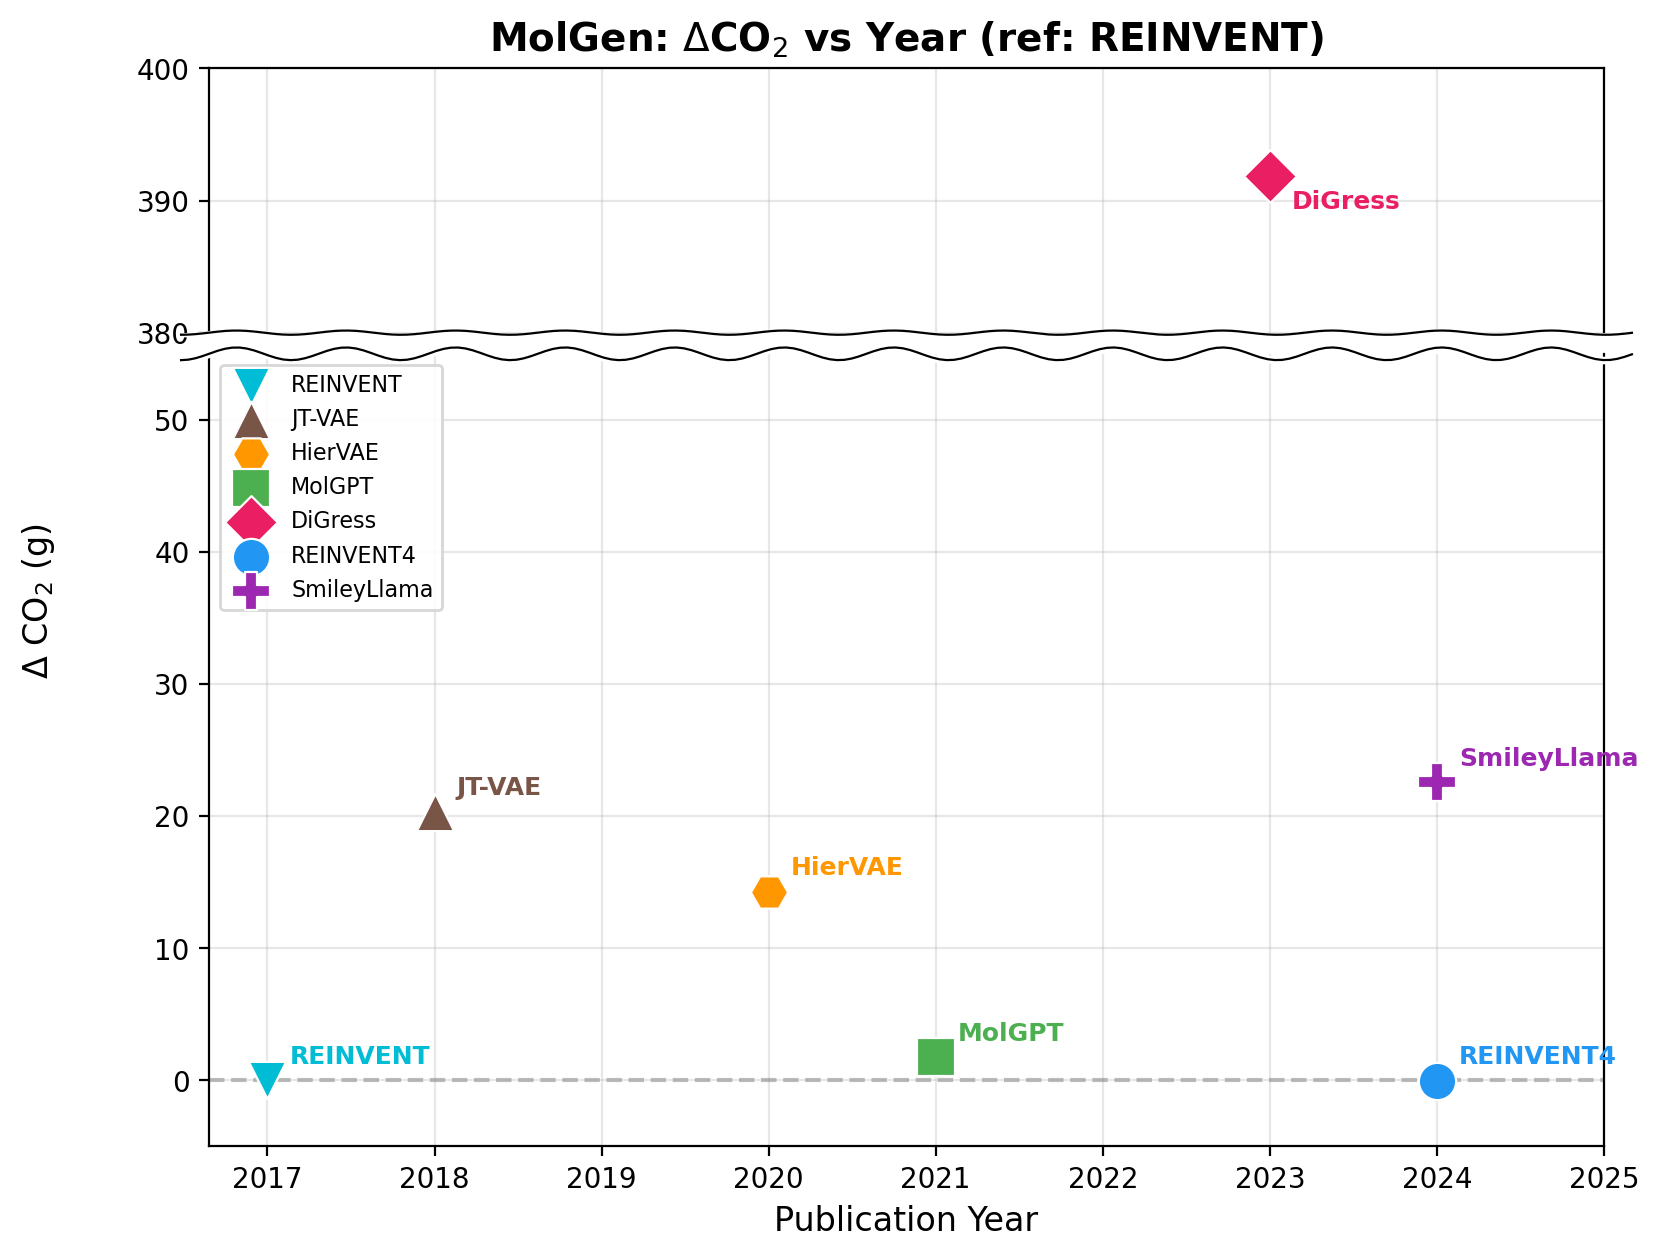
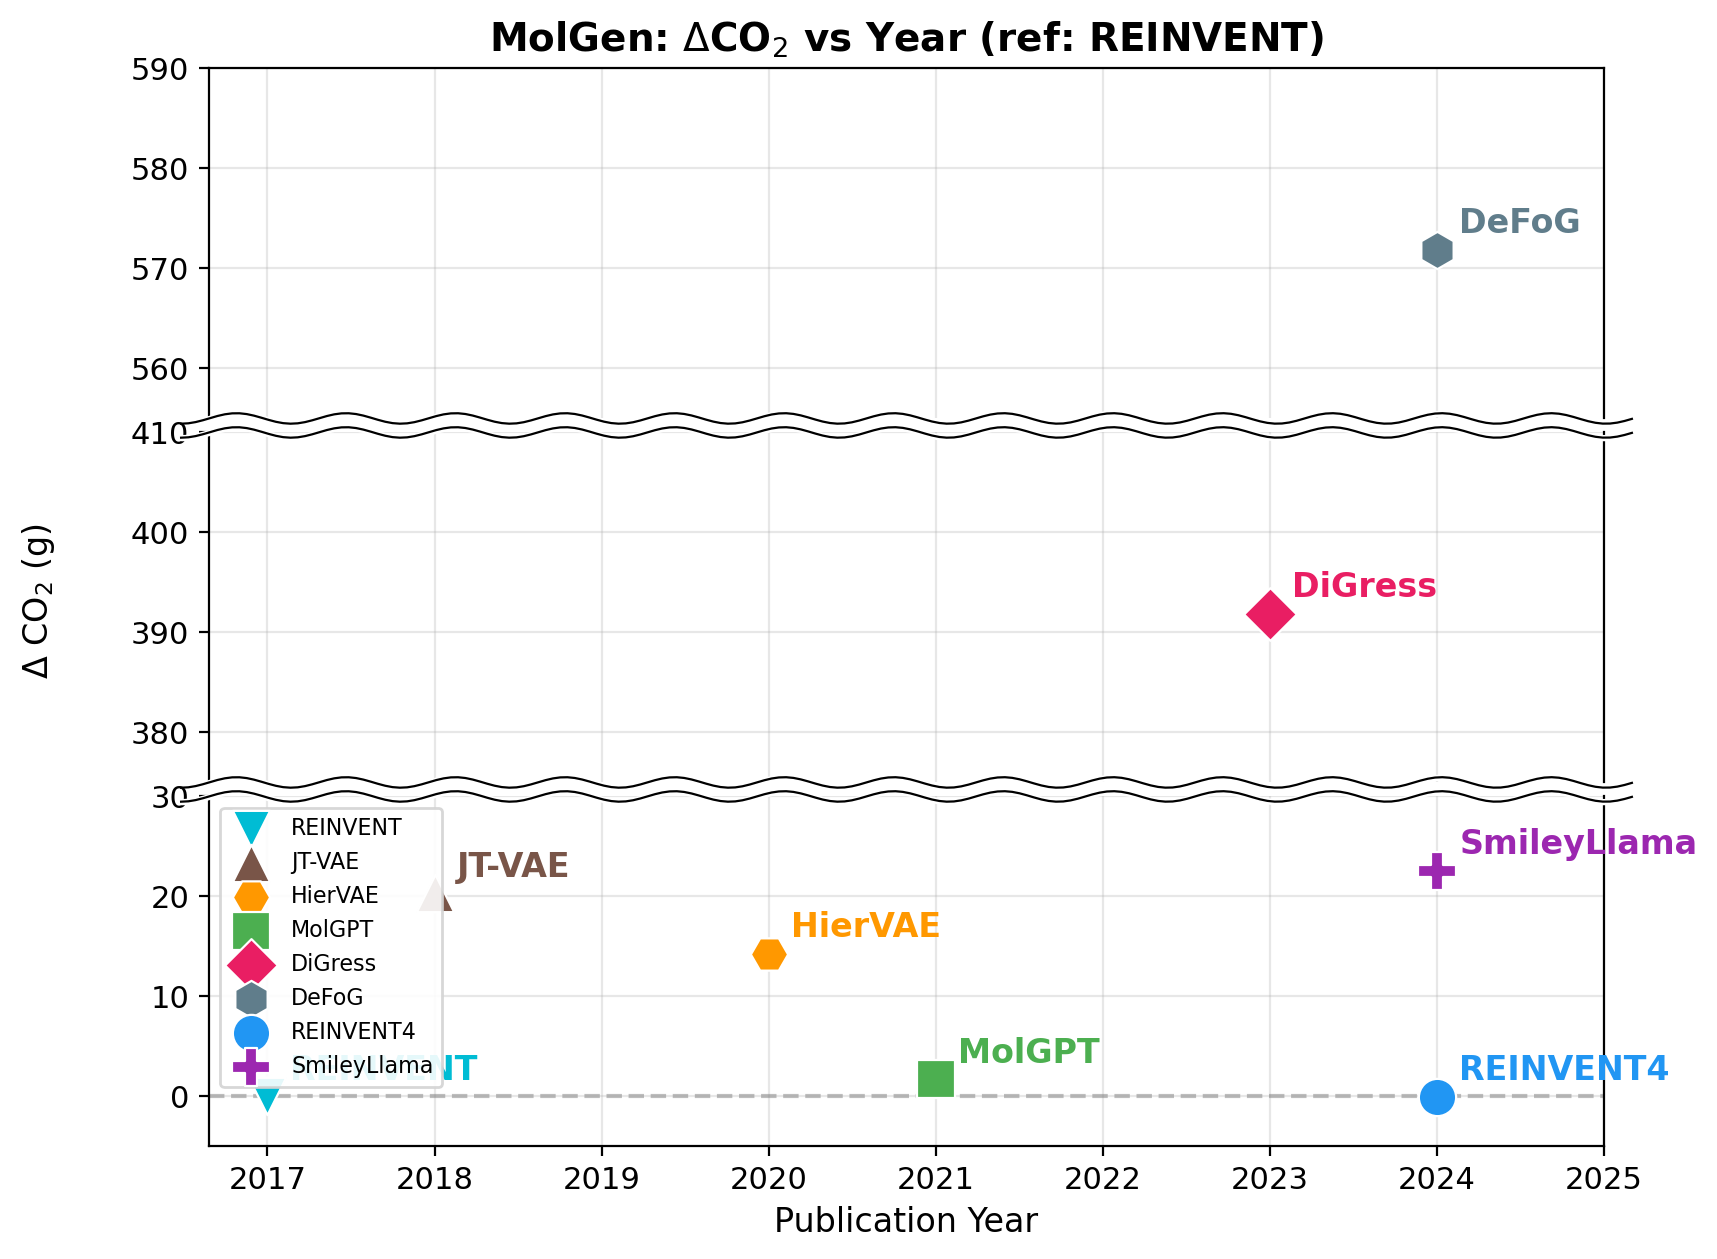
update DeFoG

diff --git a/MolGen/README.md b/MolGen/README.md
@@ -34,7 +34,7 @@ All models are trained on [ChEMBL 28](https://ftp.ebi.ac.uk/pub/databases/chembl
 | DiGress | 2023 | ICML | 16.2M | `carbon-digress` |
 | REINVENT4 | 2024 | J. Cheminf. | 5.8M | `carbon-reinvent` |
 | SmileyLlama | 2024 | arXiv | 8.0B | `carbon-smileyLlama` |
-| DeFoG | 2024 | NeurIPS | TBD | `carbon-defog` |
+| DeFoG | 2024 | NeurIPS | 16.3M | `carbon-defog` |
 
 ## Results
 
@@ -49,7 +49,7 @@ All models are trained on [ChEMBL 28](https://ftp.ebi.ac.uk/pub/databases/chembl
 | DiGress | 0.8019 | 1.0000 | 0.9958 | 79.85 | 1.770 | 391.99 | 910.41 | +3.606 | +4.348 |
 | **REINVENT4** | **0.9860** | **0.9997** | **0.9604** | **94.67** | **0.241** | **0.09** | **0.21** | **−0.100** | **−0.149** |
 | SmileyLlama | 0.9427 | 0.9998 | 0.9980 | 94.06 | 2.410 | 22.67 | 56.68 | +2.297 | +3.244 |
-| DeFoG | — | — | — | — | — | — | — | — | — |
+| DeFoG | 1.0000 | 0.9826 | 0.9920 | 97.47 | 1.235 | 571.96 | 1429.91 | +3.684 | +4.356 |
 
 **ICER** (Incremental Carbon-Effectiveness Ratio) = log<sub>10</sub>((c<sub>i</sub>/c<sub>o</sub>) / (m<sub>i</sub>/m<sub>o</sub>)), where the reference (o) is REINVENT (2017). Lower is more carbon-efficient; negative means better performance with less carbon. For FCD (lower=better), m<sub>i</sub>/m<sub>o</sub> is inverted to FCD<sub>o</sub>/FCD<sub>i</sub>.
 
